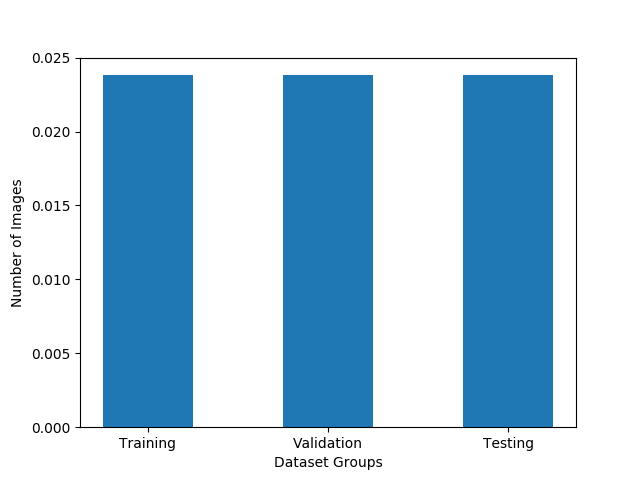
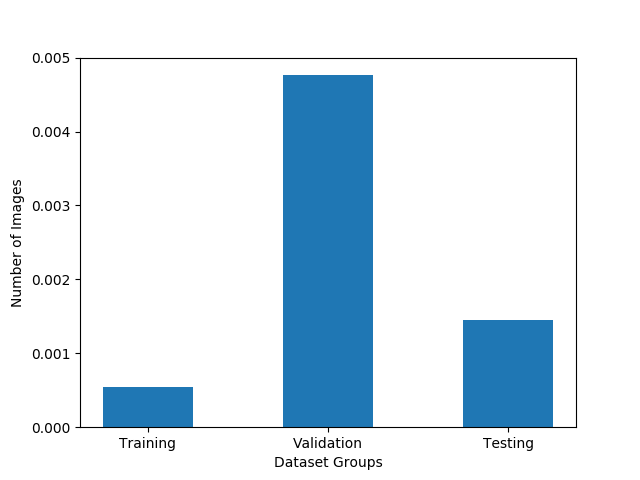
fix

diff --git a/trainer.py b/trainer.py
@@ -95,15 +95,14 @@ classesList = np.unique(yTrain)
 # How many unique classes/labels there are in the dataset.
 classesSize = np.shape(classesList)[0]
 
-'''
 print("Number of training examples =", trainSize)
 print("Number of testing examples =", testSize)
 print("Image data shape =", imageShape)
 print("Number of classes =", classesSize)
 print("\n")
-'''
 
-'''
+
+
 
 # Items Per Dataset Group
 xVal = ['Training', 'Validation', 'Testing']
@@ -113,19 +112,40 @@ plot.barPlot(xVal, yVal, xLabel='Dataset Groups',
 
 
 # Total of Items per Class in Training Dataset
-xVal = yTrain
-histTrain = plot.histogramPlot(xVal, bins=classesSize, xLabel='Classes',
-                   yLabel='Number of Images', fileName='datasetHistTrain', save=True, density=True, show=PREVIEW)
+yVal = np.zeros(shape=(classesSize))
+
+for i in range(0, classesSize, 1):
+    yVal[i] = np.count_nonzero(yTrain == i)
+    
+histTrain = plot.histogramPlot(yVal, bins=classesSize, xLabel='Classes',
+                   yLabel='Number of Images', fileName='datasetHistTrain', save=False, density=True, show=PREVIEW)
+
+plot.barPlot2(np.arange(0,classesSize,1), yVal, xLabel='Classes', setXAxis= (-1,43),
+             yLabel='Number of Images', fileName='datasetHistTrain', save=True, show=PREVIEW)
 
 # Total of Items per Class in Validation Dataset
-xVal =yValid
-histValid = plot.histogramPlot(xVal, bins=classesSize, xLabel='Classes',
-                   yLabel='Number of Images', fileName='datasetHistValid', save=True, density=True, show=PREVIEW)
+yVal = np.zeros(shape=(classesSize))
+
+for i in range(0, classesSize, 1):
+    yVal[i] = np.count_nonzero(yValid == i)
+
+histValid = plot.histogramPlot(yVal, bins=classesSize, xLabel='Classes',
+                   yLabel='Number of Images', fileName='datasetHistValid', save=False, density=True, show=PREVIEW)
+
+plot.barPlot2(np.arange(0,classesSize,1), yVal, xLabel='Classes', setXAxis= (-1,43),
+             yLabel='Number of Images', fileName='datasetHistValid', save=True, show=PREVIEW)
 
 # Total of Items per Class in Testing Dataset
-xVal = yTest
-histTest = plot.histogramPlot(xVal, bins=classesSize, xLabel='Classes',
-                   yLabel='Number of Images', fileName='datasetHistTest', save=True, density=True, show=PREVIEW)
+yVal = np.zeros(shape=(classesSize))
+
+for i in range(0, classesSize, 1):
+    yVal[i] = np.count_nonzero(yTest == i)
+
+histTest = plot.histogramPlot(yVal, bins=classesSize, xLabel='Classes',
+                   yLabel='Number of Images', fileName='datasetHistTest', save=False, density=True, show=PREVIEW)
+
+plot.barPlot2(np.arange(0,classesSize,1), yVal, xLabel='Classes', setXAxis= (-1,43),
+             yLabel='Number of Images', fileName='datasetHistTest', save=True, show=PREVIEW)
 
 
 # Mean Value of Dataset Groups
@@ -143,7 +163,7 @@ plot.barPlot(xVal, yVal, xLabel='Dataset Groups',
 
 
 print('Plots Done')
-'''
+
 
 print('Start Preprocessing...')
 
@@ -232,15 +252,15 @@ def evaluate(xData, yData):
 def evaluate2(xData, yData):
 
     print("Evaluating Results..")
-    result = np.zeros(shape=(classesSize,2))
+    
     examplesSize = len(xData)
     totalAccuracy = 0
     sess = tf.get_default_session()
     for offset in tqdm(range(0, examplesSize, 1)):
         batchX, batchY = xData[offset:offset+1], yData[offset:offset+1]
         accuracy = sess.run(accuracyOperation, feed_dict={x: batchX, y: batchY})
-
         label = batchY[0]
+        result = np.zeros(shape=(classesSize,2))
         if(accuracy == 1):
             result[label,1] += 1
         else:
@@ -298,14 +318,15 @@ with tf.Session() as sess:
 
         if(i == EPOCHS-1):
             accuracyResult = evaluate2(xValid,yValid)
+            print(accuracyResult.shape)
 
 
     yVal = (accuracyResult[:,1]*100)/(accuracyResult[:,0] + accuracyResult[:,1])
-    plot.barPlot2(np.arange(1,classesSize,1), yVal, xLabel='Dataset Groups', setXAxis= (-1,43),
+    plot.barPlot2(np.arange(0,classesSize,1), yVal, xLabel='Dataset Groups', setXAxis= (-1,43),
              yLabel='Accuracy', fileName='AccuracyResults', save=True, show=PREVIEW)
 
     yVal = (accuracyResult[:,0]*100)/(accuracyResult[:,0] + accuracyResult[:,1])
-    plot.barPlot2(np.arange(1,classesSize,1), yVal, xLabel='Dataset Groups', setXAxis= (-1,43), setYAxis= (0,100),
+    plot.barPlot2(np.arange(0,classesSize,1), yVal, xLabel='Dataset Groups', setXAxis= (-1,43), setYAxis= (0,100),
              yLabel='Accuracy Error', fileName='AccuracyErrorResults', save=True, show=PREVIEW)
 
 

diff --git a/networks.py b/networks.py
@@ -15,8 +15,7 @@ def LeNetModified2(inputData, outputClasses):
     
 
 
-
-    convolutionOutput = flatten(conv3)#tf.concat([convOutA, convOutB], 1)
+    convolutionOutput = tf.concat([flatten(maxPool1), flatten(maxPool2), flatten(conv3)], 1)
 
     
 
